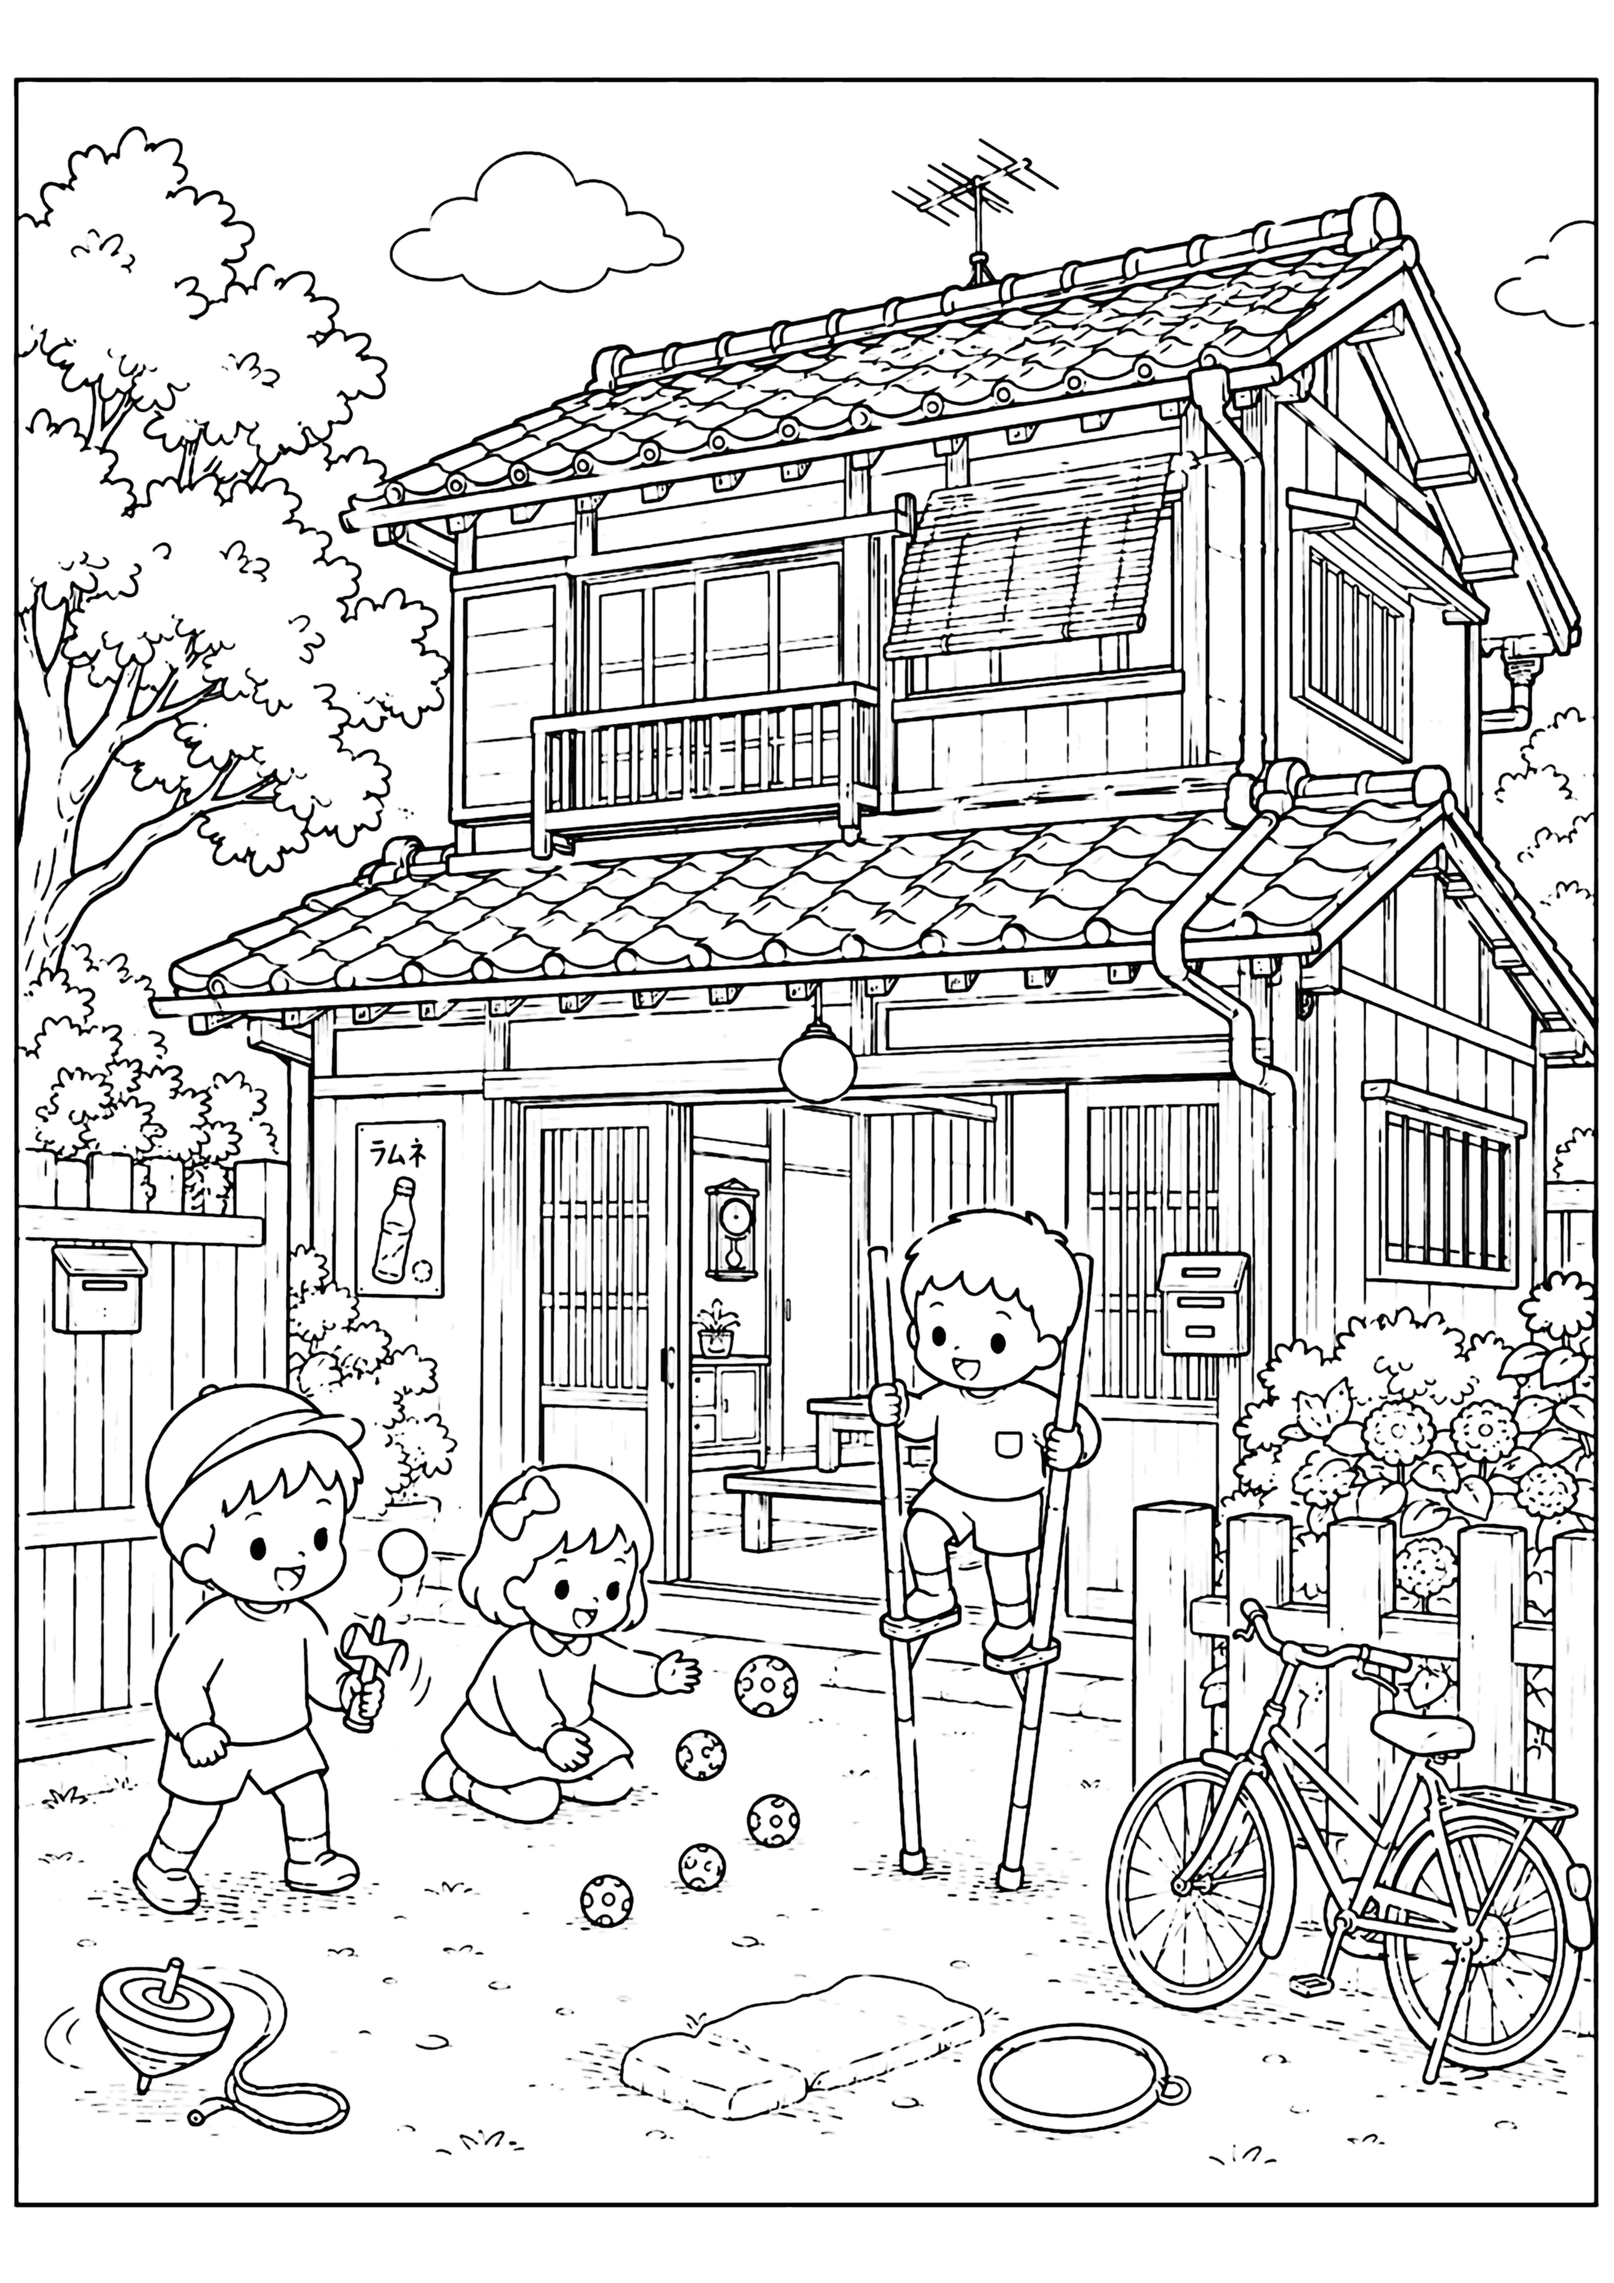
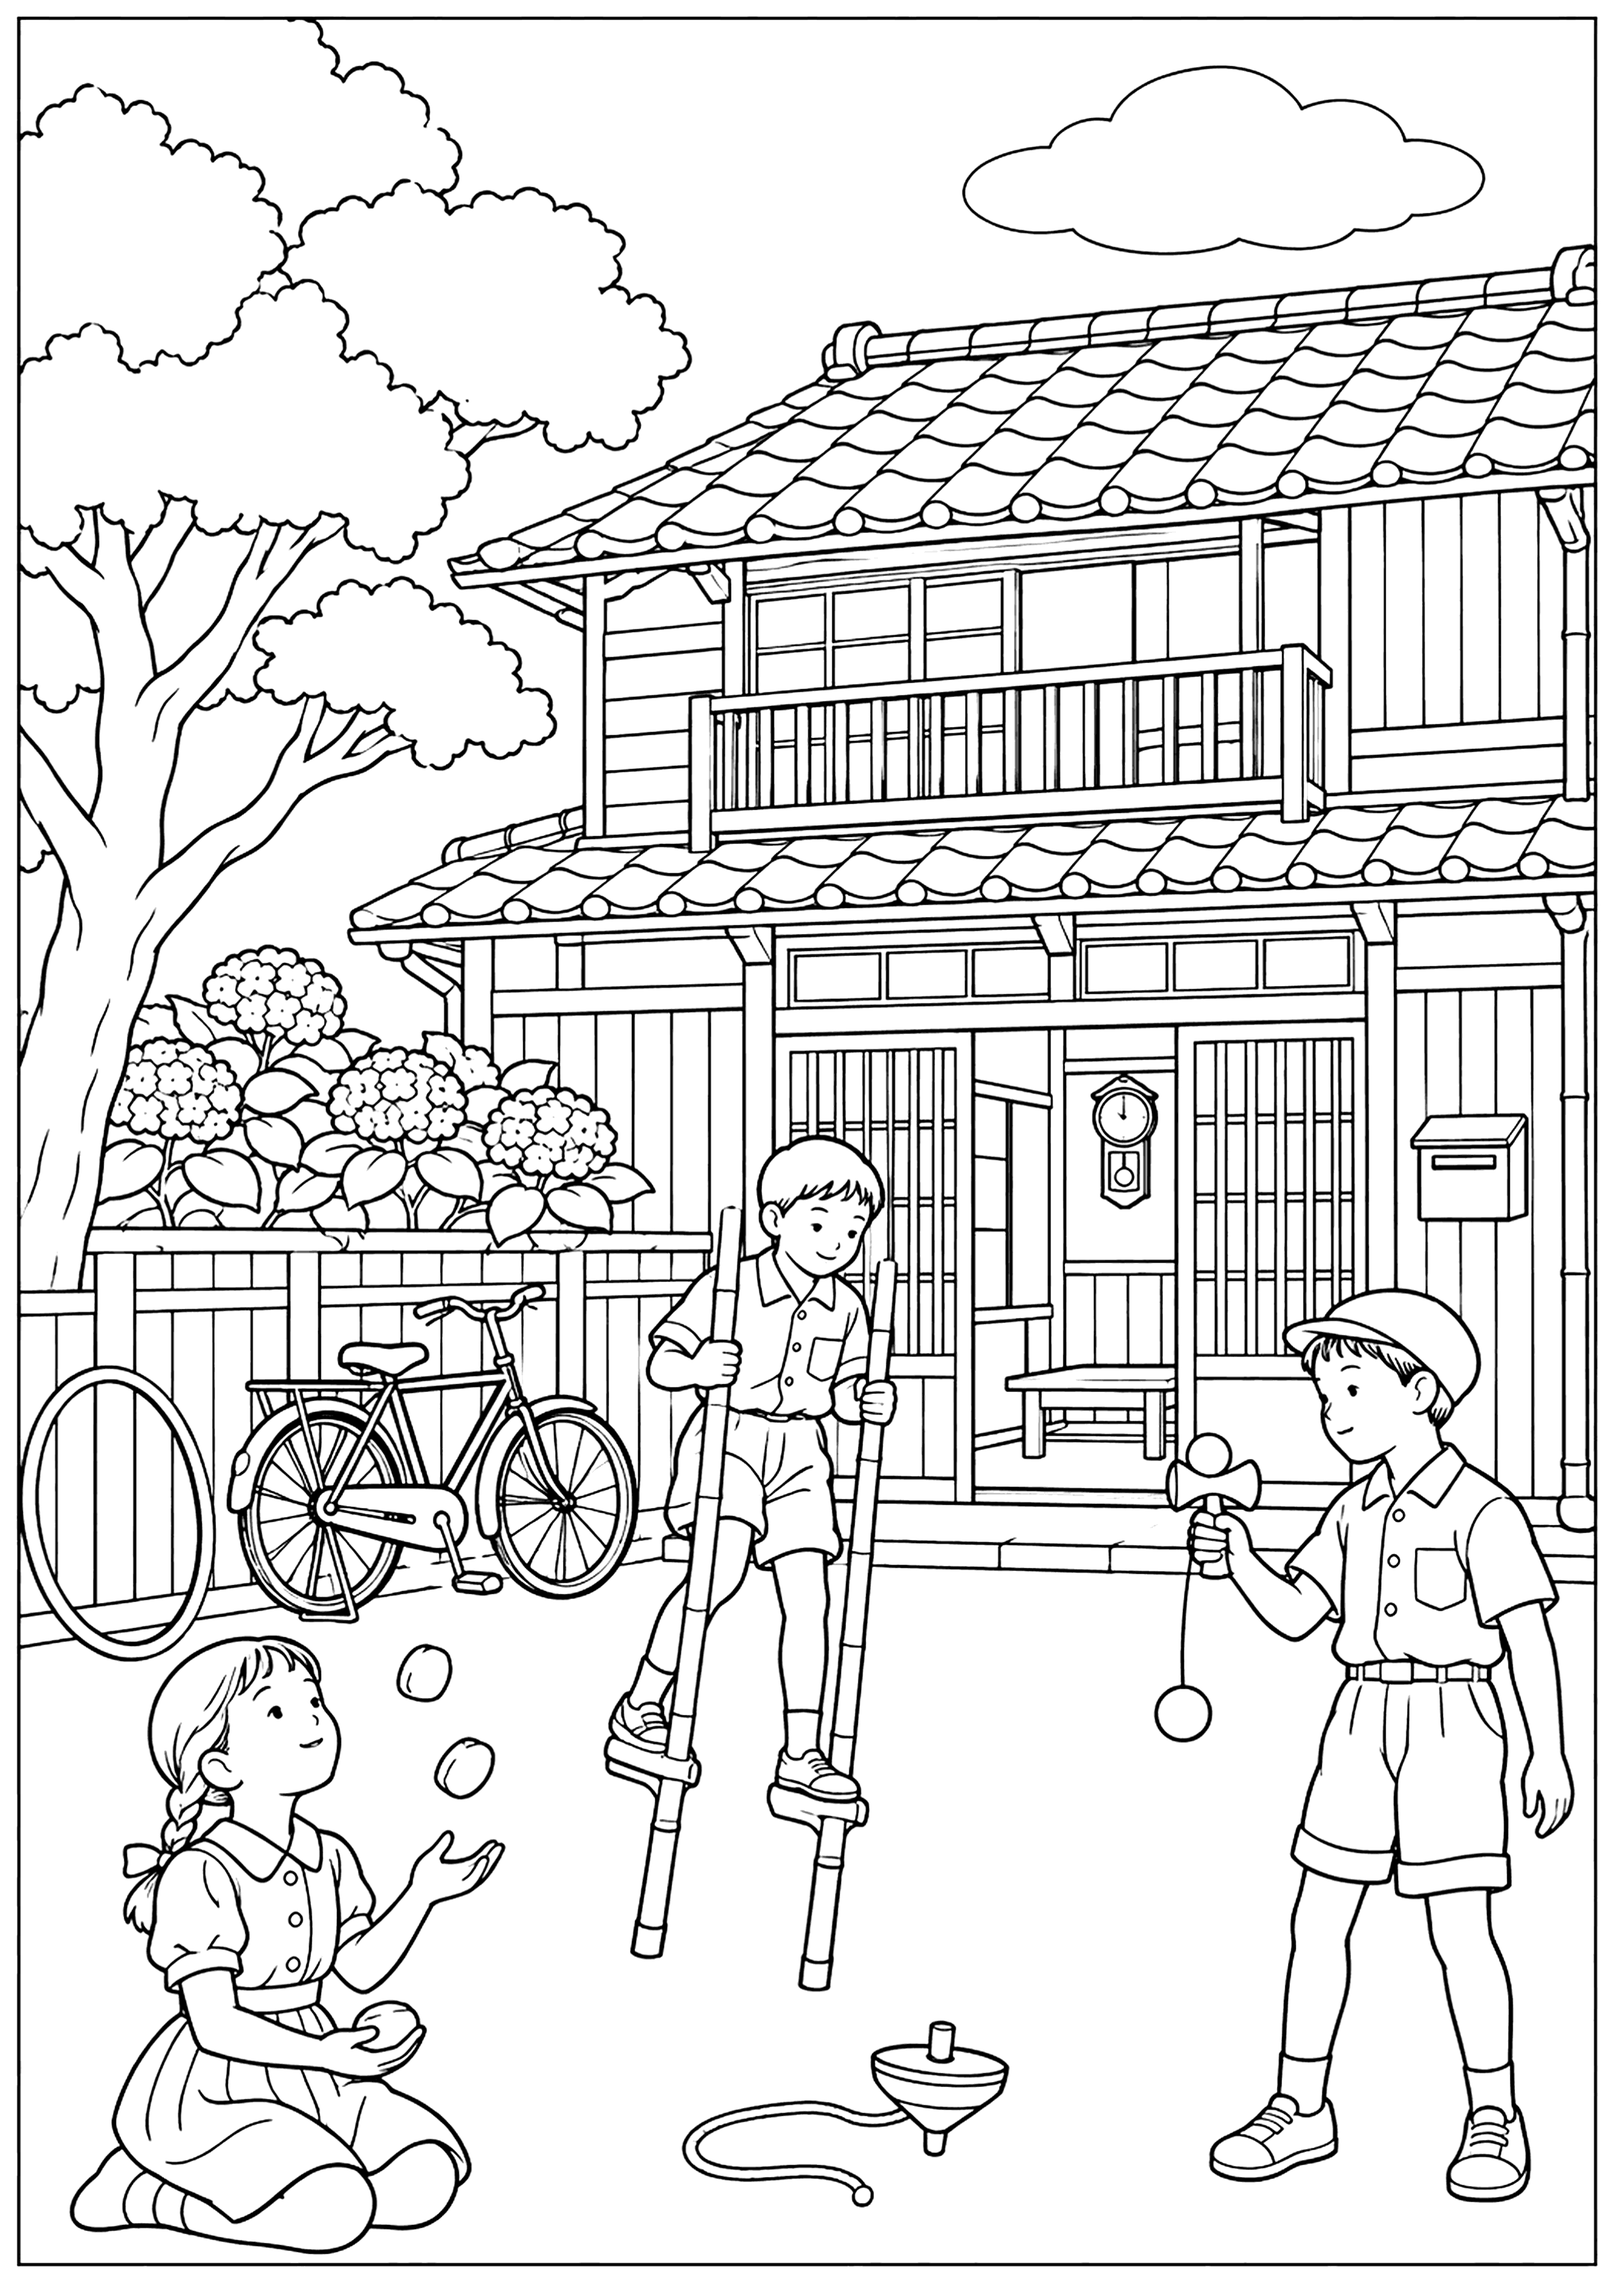
昔の遊び（上級）を写実的な線画に差し替え（色見本も更新）
Claude-Session: https://claude.ai/code/session_01EPRbSQarT8Zvr9Xt4KzYhj

diff --git a/data.js b/data.js
@@ -525,7 +525,7 @@ window.NURIE_LIST = [
   { season: "通年", genre: "食べ物", title: "喫茶店のプリン", diff: "中級", file: "kissaten_pudding_chu.png", sample: "kissaten_pudding_chu_sample.jpg", added: "2026-08", v: "1792421908866" },
   { season: "通年", genre: "食べ物", title: "寿司", diff: "中級", file: "sushi_chu.png", sample: "sushi_chu_sample.jpg", added: "2026-08", v: "1792421908866" },
   { season: "通年", genre: "その他", title: "折り紙", diff: "中級", file: "origami_chu.png", sample: "origami_chu_sample.jpg", added: "2026-08", v: "1792421908866" },
-  { season: "通年", genre: "その他", title: "昔の遊び", diff: "上級", file: "mukashi_asobi_jo.png", sample: "mukashi_asobi_jo_sample.jpg", added: "2026-08", v: "1792421908866" },
+  { season: "通年", genre: "その他", title: "昔の遊び", diff: "上級", file: "mukashi_asobi_jo.png", sample: "mukashi_asobi_jo_sample.jpg", added: "2026-08", v: "1795433600000" },
   { season: "通年", genre: "その他", title: "昔の遊び", diff: "中級", file: "mukashi_asobi_chu.png", sample: "mukashi_asobi_chu_sample.jpg", added: "2026-08", v: "1792421908866" },
   { season: "通年", genre: "動物", title: "片羽蝶", diff: "中級", file: "katahane_chou_chu.png", sample: "katahane_chou_chu_sample.jpg", added: "2026-08", v: "1792421908866" },
   { season: "通年", genre: "動物", title: "猫と花束", diff: "初級", file: "neko_hanataba_sho.png", sample: "neko_hanataba_sho_sample.jpg", added: "2026-08", v: "1792421908866" },
